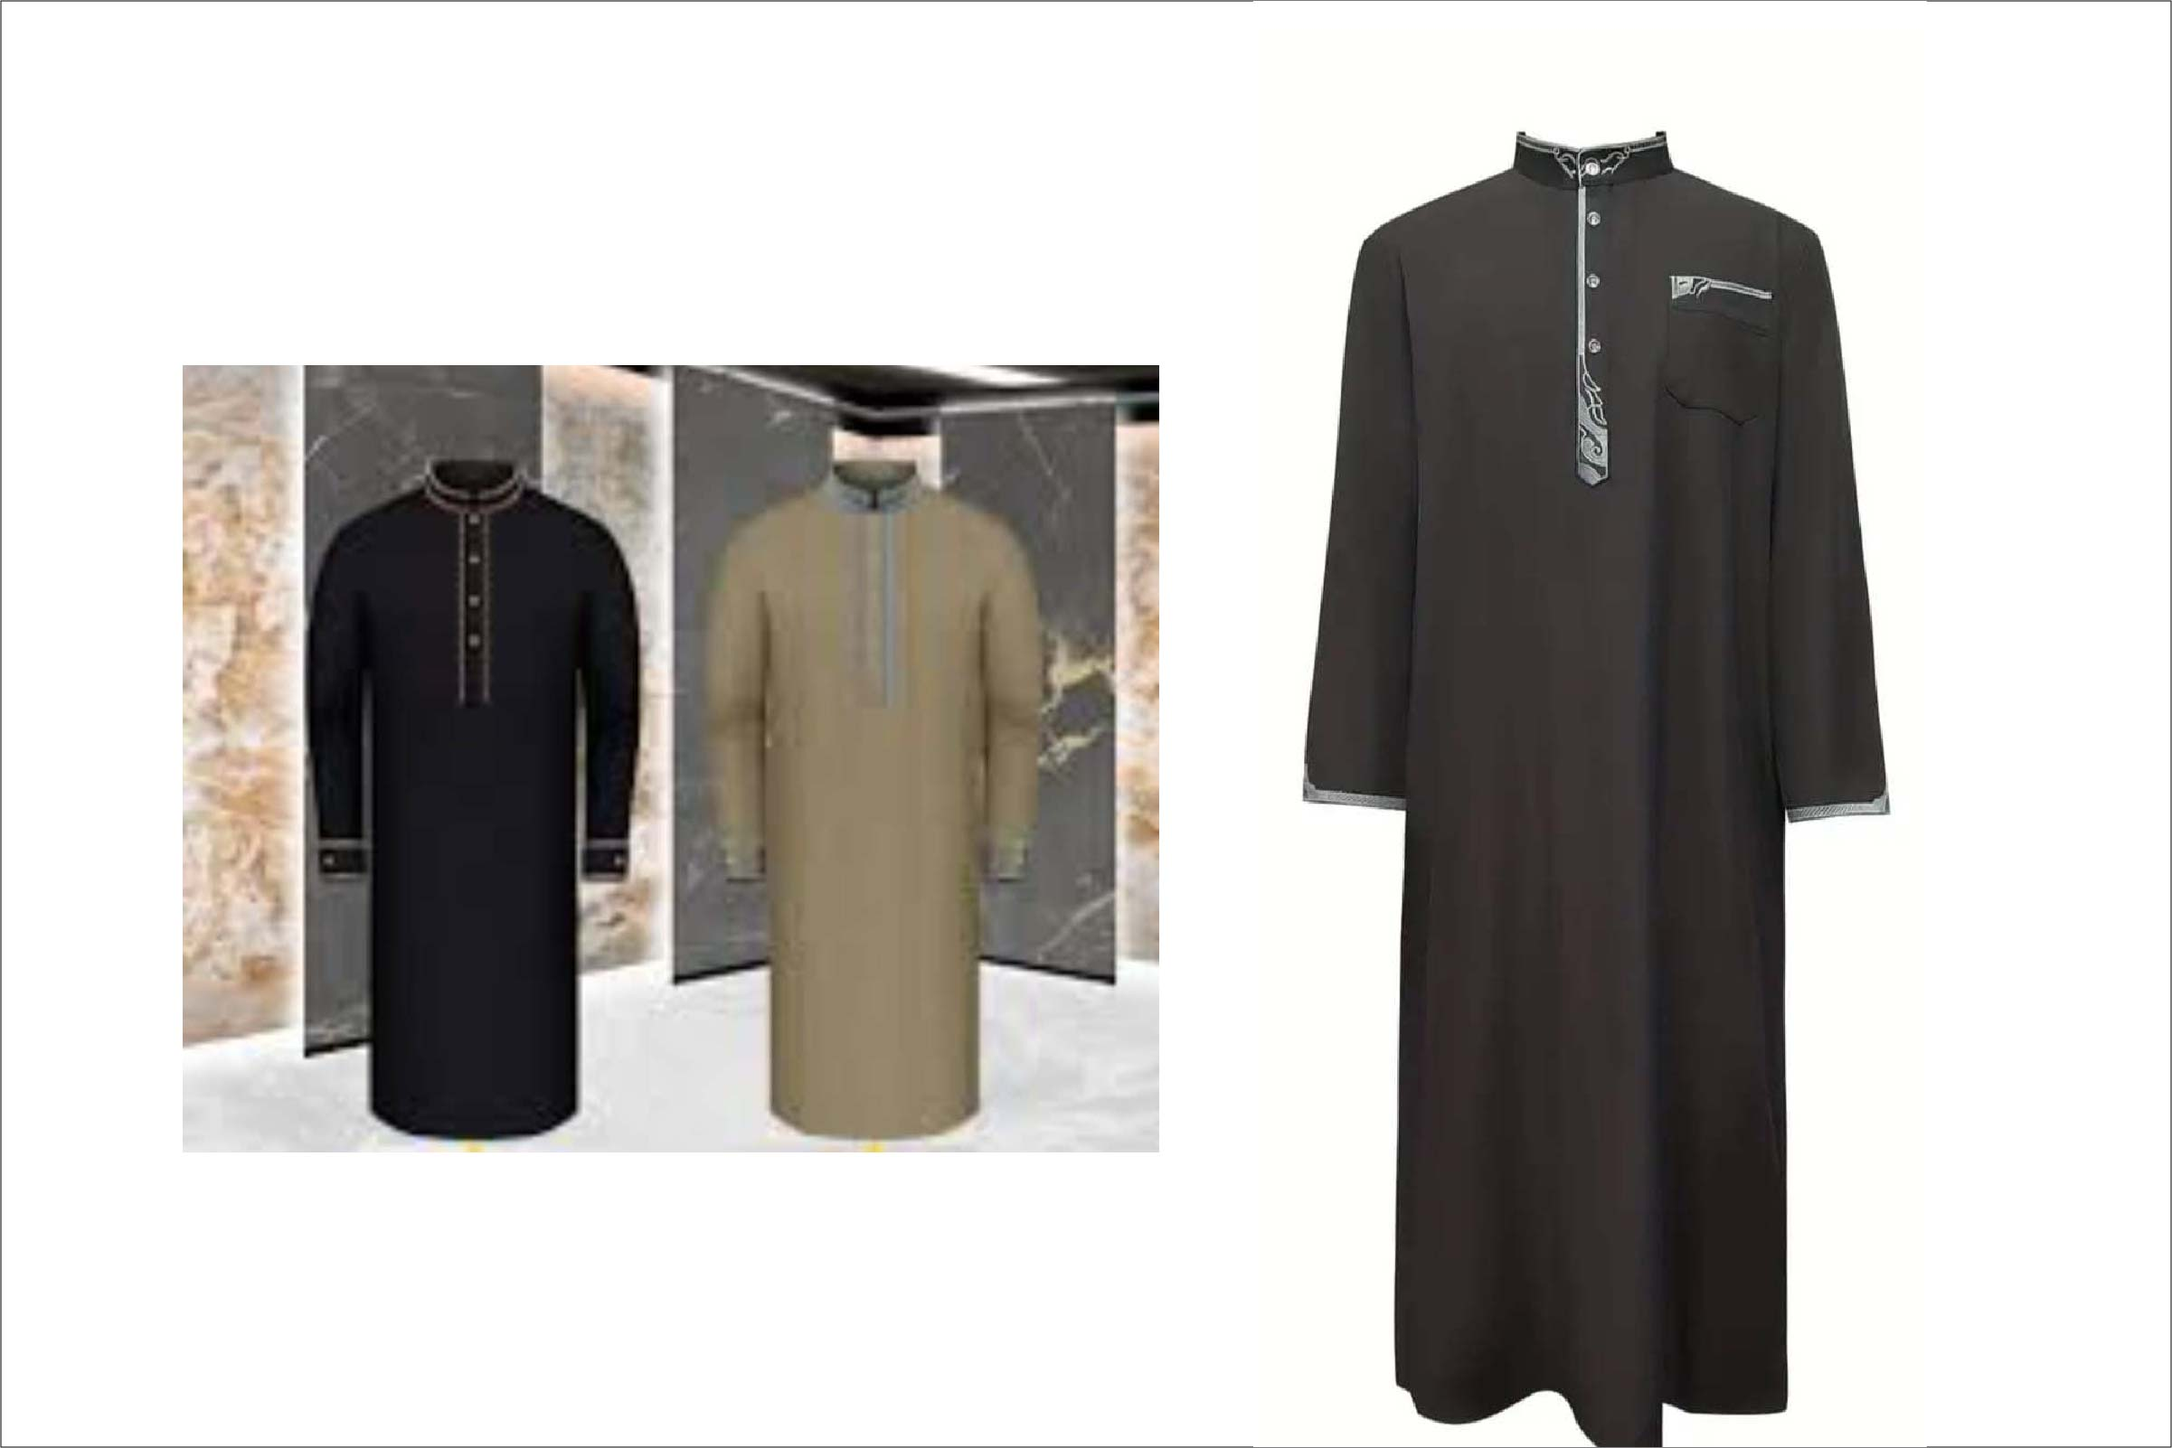
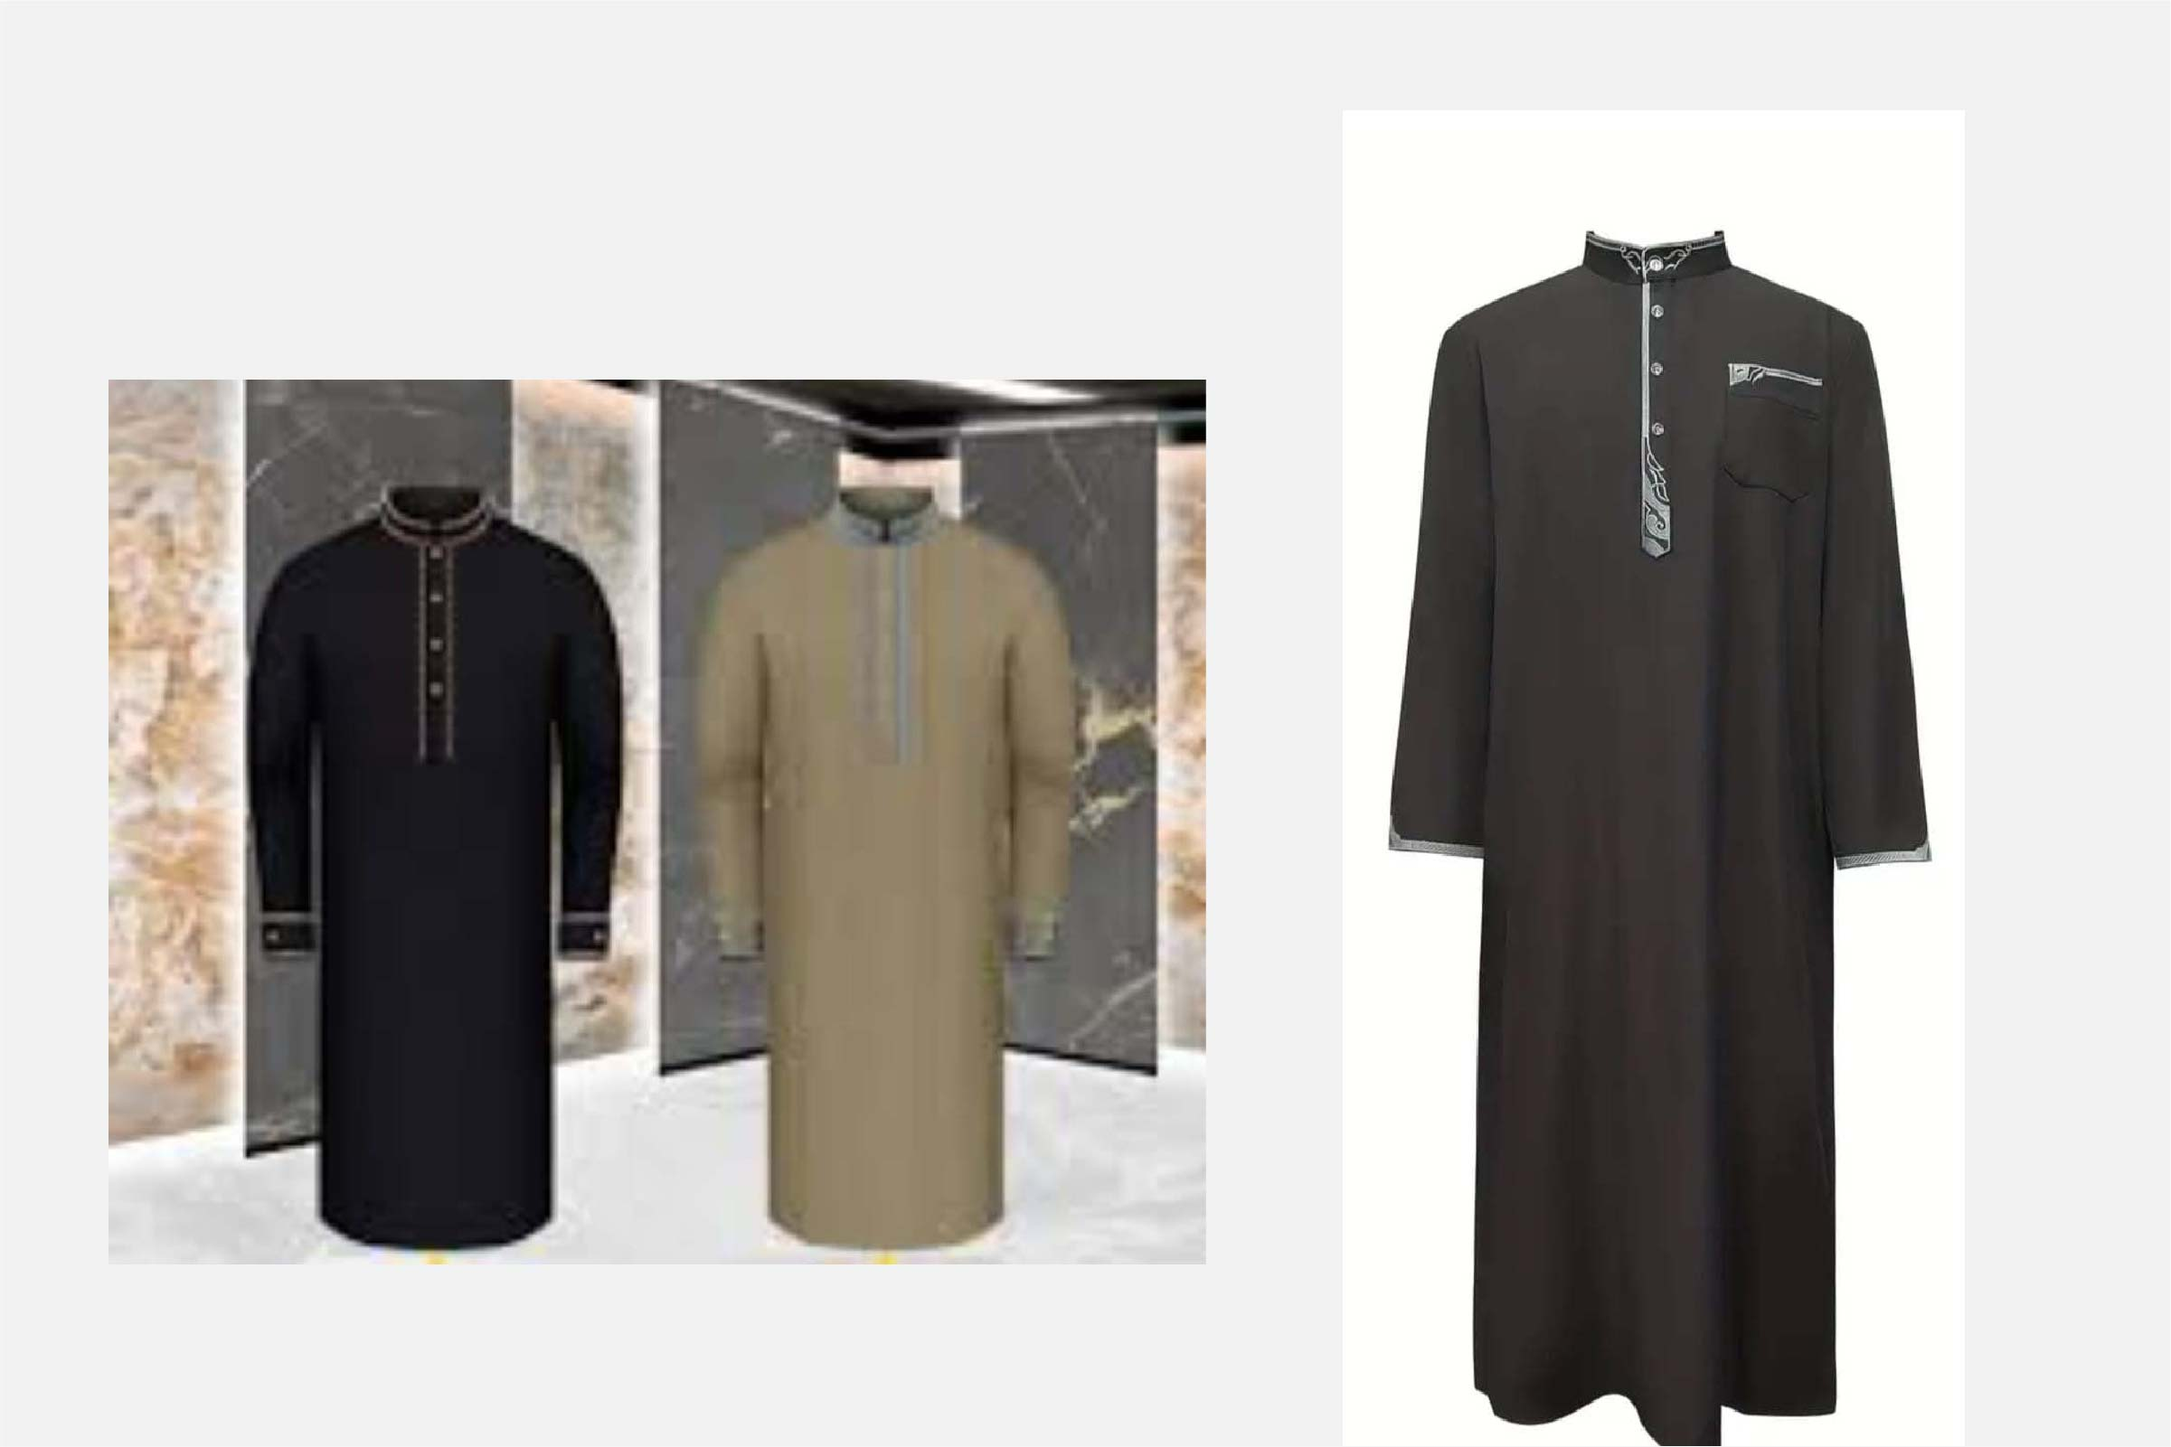
Emarati kendora added to the category section

Changed region(s): [[0.0312, 0.2498, 0.5623, 0.8745], [0.0, 0.0, 1.0, 1.0], [0.3436, 0.406, 0.3748, 0.4372]]

diff --git a/components/ui/hmeCard/HomeCategoryCardSection.tsx b/components/ui/hmeCard/HomeCategoryCardSection.tsx
@@ -14,6 +14,7 @@ const cardsData = [
   { titleEn: "Omani Kendora", titleAr: "بورك", descriptionEn: "Fabric: Made from soft, premium-quality materials such as Dubai Cherry, chiffon, cotton, georgette, and rayon, ensuring superior comfort and breathability for everyday wear or special occasions.Design: Available in classic black, elegant plain styles, and luxurious designs. Our jubbas feature modern cuts with refined cutwork, stone detailing, and contrast embroidery in a range of colors including black, navy blue, and soft pastels. Embroidery & Detailing: Each jubba is carefully crafted using hand or machine embroidery, enhanced with lace accents, sequins, and tasteful stone embellishments for a sophisticated and graceful finish.", descriptionAr: "الخامة: مصنوعة من أقمشة ناعمة وعالية الجودة مثل دبي تشيري، الشيفون، القطن، الجورجيت، والرايون، لتوفير أقصى درجات الراحة والتهوية للاستخدام اليومي أو المناسبات الخاصة. التصميم: متوفرة باللون الأسود الكلاسيكي، والتصاميم السادة الأنيقة، بالإضافة إلى الموديلات الفاخرة. تتميز الجباب بتصميم عصري مع قصّات متقنة، وتفاصيل حجرية، وتطريز متباين بألوان متعددة مثل الأسود، الأزرق الداكن، وألوان الباستيل الهادئة. التطريز والتفاصيل: يتم تصميم كل جبّة بعناية باستخدام التطريز اليدوي أو الآلي، مع لمسات من الدانتيل، الترتر، وتزيينات حجرية أنيقة تمنحها مظهراً راقياً ومميزاً", img: "/OmaniKendoraUpdated.jpg" },
   { titleEn: "Queti Kendora", titleAr: "بورك", descriptionEn: "Fabric: Made from soft, premium-quality materials such as Dubai Cherry, chiffon, cotton, georgette, and rayon, ensuring superior comfort and breathability for everyday wear or special occasions.Design: Available in classic black, elegant plain styles, and luxurious designs. Our jubbas feature modern cuts with refined cutwork, stone detailing, and contrast embroidery in a range of colors including black, navy blue, and soft pastels. Embroidery & Detailing: Each jubba is carefully crafted using hand or machine embroidery, enhanced with lace accents, sequins, and tasteful stone embellishments for a sophisticated and graceful finish.", descriptionAr: "الخامة: مصنوعة من أقمشة ناعمة وعالية الجودة مثل دبي تشيري، الشيفون، القطن، الجورجيت، والرايون، لتوفير أقصى درجات الراحة والتهوية للاستخدام اليومي أو المناسبات الخاصة. التصميم: متوفرة باللون الأسود الكلاسيكي، والتصاميم السادة الأنيقة، بالإضافة إلى الموديلات الفاخرة. تتميز الجباب بتصميم عصري مع قصّات متقنة، وتفاصيل حجرية، وتطريز متباين بألوان متعددة مثل الأسود، الأزرق الداكن، وألوان الباستيل الهادئة. التطريز والتفاصيل: يتم تصميم كل جبّة بعناية باستخدام التطريز اليدوي أو الآلي، مع لمسات من الدانتيل، الترتر، وتزيينات حجرية أنيقة تمنحها مظهراً راقياً ومميزاً", img: "/Quweti_Kendora_updated.jpg" },
   { titleEn: "Indian/Pakistani", titleAr: "بورك", descriptionEn: "Fabric: Made from soft, premium-quality materials such as Dubai Cherry, chiffon, cotton, georgette, and rayon, ensuring superior comfort and breathability for everyday wear or special occasions.Design: Available in classic black, elegant plain styles, and luxurious designs. Our jubbas feature modern cuts with refined cutwork, stone detailing, and contrast embroidery in a range of colors including black, navy blue, and soft pastels. Embroidery & Detailing: Each jubba is carefully crafted using hand or machine embroidery, enhanced with lace accents, sequins, and tasteful stone embellishments for a sophisticated and graceful finish.", descriptionAr: "الخامة: مصنوعة من أقمشة ناعمة وعالية الجودة مثل دبي تشيري، الشيفون، القطن، الجورجيت، والرايون، لتوفير أقصى درجات الراحة والتهوية للاستخدام اليومي أو المناسبات الخاصة. التصميم: متوفرة باللون الأسود الكلاسيكي، والتصاميم السادة الأنيقة، بالإضافة إلى الموديلات الفاخرة. تتميز الجباب بتصميم عصري مع قصّات متقنة، وتفاصيل حجرية، وتطريز متباين بألوان متعددة مثل الأسود، الأزرق الداكن، وألوان الباستيل الهادئة. التطريز والتفاصيل: يتم تصميم كل جبّة بعناية باستخدام التطريز اليدوي أو الآلي، مع لمسات من الدانتيل، الترتر، وتزيينات حجرية أنيقة تمنحها مظهراً راقياً ومميزاً", img: "/Indian PakistaniUpdated.jpg" },
+  { titleEn: "Emarati Kendora", titleAr: "بورك", descriptionEn: "Fabric: Made from soft, premium-quality materials such as Dubai Cherry, chiffon, cotton, georgette, and rayon, ensuring superior comfort and breathability for everyday wear or special occasions.Design: Available in classic black, elegant plain styles, and luxurious designs. Our jubbas feature modern cuts with refined cutwork, stone detailing, and contrast embroidery in a range of colors including black, navy blue, and soft pastels. Embroidery & Detailing: Each jubba is carefully crafted using hand or machine embroidery, enhanced with lace accents, sequins, and tasteful stone embellishments for a sophisticated and graceful finish.", descriptionAr: "الخامة: مصنوعة من أقمشة ناعمة وعالية الجودة مثل دبي تشيري، الشيفون، القطن، الجورجيت، والرايون، لتوفير أقصى درجات الراحة والتهوية للاستخدام اليومي أو المناسبات الخاصة. التصميم: متوفرة باللون الأسود الكلاسيكي، والتصاميم السادة الأنيقة، بالإضافة إلى الموديلات الفاخرة. تتميز الجباب بتصميم عصري مع قصّات متقنة، وتفاصيل حجرية، وتطريز متباين بألوان متعددة مثل الأسود، الأزرق الداكن، وألوان الباستيل الهادئة. التطريز والتفاصيل: يتم تصميم كل جبّة بعناية باستخدام التطريز اليدوي أو الآلي، مع لمسات من الدانتيل، الترتر، وتزيينات حجرية أنيقة تمنحها مظهراً راقياً ومميزاً", img: "/Emarati_KendoraUpdated.jpg" },
 ];
 
 const HomeCategoryCardSection: React.FC = () => {

diff --git a/app/Products/page.tsx b/app/Products/page.tsx
@@ -3,112 +3,13 @@
 
 import { useRouter } from "next/navigation";
 import React from "react";
+import Product from "./Product";
 
-const products = [
-  {
-    id: 1,
-    // name: "Smart Watch",
-    // price: 2500,
-    image: "/Goodwork.jpeg",
-  },
-  {
-    id: 2,
-    // name: "Gaming Mouse",
-    // price: 1500,
-    image: "/Goodwork1.jpeg",
-  },
-  {
-    id: 3,
-    // name: "Bluetooth Speaker",
-    // price: 1800,
-    image: "/Goodwork2.jpeg",
-  },
-  {
-    id: 4,
-    // name: "Bluetooth Speaker",
-    // price: 1800,
-    image: "/Goodwork3.jpeg",
-  },
-  {
-    id: 5,
-    // name: "Bluetooth Speaker",
-    // price: 1800,
-    image: "/Goodwork4.jpeg",
-  },
-  {
-    id: 6,
-    // name: "Bluetooth Speaker",
-    // price: 1800,
-    image: "/Goodwork5.jpeg",
-  },
-  {
-    id: 7,
-    // name: "Bluetooth Speaker",
-    // price: 1800,
-    image: "/Goodwork6.jpeg",
-  },
-  {
-    id: 8,
-    // name: "Bluetooth Speaker",
-    // price: 1800,
-    image: "/Goodwork7.jpeg",
-  },
-  {
-    id: 9,
-    // name: "Bluetooth Speaker",
-    // price: 1800,
-    image: "/Goodwork8.jpeg",
-  },
-  {
-    id: 10,
-    // name: "Bluetooth Speaker",
-    // price: 1800,
-    image: "/Goodwork9.jpeg",
-  },
-  {
-    id: 11,
-    // name: "Bluetooth Speaker",
-    // price: 1800,
-    image: "/menDressEdited3.png",
-  },
-  {
-    id: 12,
-    // name: "Bluetooth Speaker",
-    // price: 1800,
-    image: "/menDressEdited2.jpg",
-  },
-];
 
 const Page = () => {
    const router = useRouter();
   return (
-    <div className="px-6 py-10">
-      <h1 className="text-3xl text-[#D4AB45] text-center font-bold mb-6">Finished Products</h1>
-
-      <div className="lg:w-[60%] mx-auto grid grid-cols-1 sm:grid-cols-2 md:grid-cols-3 gap-6">
-        {products.map((item) => (
-          <div
-            key={item?.id}
-            className="border w-full rounded-lg p-4 shadow hover:shadow-xl transition duration-200"
-          >
-            <img
-              src={item?.image}
-              alt={"Imgae"}
-              className="w-full h-[400px] object-cover rounded"
-            />
-
-            {/* <h2 className="text-xl font-semibold mt-3">{item?.name}</h2> */}
-            <p className="text-gray-600">Price: Negotiable</p>
-
-            <button
-            onClick={()=>router .push('/Contactus')}
-            className="mt-3 bg-[#D4AB45] text-white rounded px-4 py-2">
-             Order now
-            </button>
-          </div>
-        ))}
-      </div>
-    </div>
+    <Product />
   );
 };
 

diff --git a/app/Contactus/page.tsx b/app/Contactus/page.tsx
@@ -99,7 +99,7 @@ export default function ContactPage() {
       {/* ======================Address section ======================= */}
       <div className="lg:my-12 lg:flex gap-8">
         <div>
-          <h6 className="text-xl text-[#D4AB45] font-bold">Address:</h6>
+          <h6 className="text-xl text-[#D4AB45] font-bold mt-[4%]">Address:</h6>
           <p className="text-xs">CR No. 1208992 <br />
             Shop No. 14 <br />
             Al Salami <br />
@@ -113,7 +113,7 @@ export default function ContactPage() {
             <img
               src="/shop.jpeg"
               alt="preview"
-              className="w-[15%] cursor-pointer"
+              className="lg:w-[15%] cursor-pointer mt-[2%]"
               onClick={() => setShow(true)}
             />
           </div>

diff --git a/app/home/MaterialsAndTech.tsx b/app/home/MaterialsAndTech.tsx
@@ -14,8 +14,8 @@ const Materials = [
 
 const MaterialsAndTech = () => {
   return (
-    <div className="p-4 max-w-[70%] items-center mx-auto">
-         <h2 className="text-3xl text-[#D4AB45] text-center mt-12 font-bold py-6">Materials We Use</h2>
+    <div className="p-4 max-w-[70%] items-center mx-auto -mt-8 lg:mt-0">
+         <h2 className="lg:text-3xl text-xl text-[#D4AB45] text-center mt-12 font-bold py-6">Materials We Use</h2>
       <div className="grid grid-cols-1 md:grid-cols-2 lg:grid-cols-4 gap-4">
         {Materials.map((item, index) => (
           <div key={index} className="w-full h-52">

diff --git a/app/home/ProductCategory.tsx b/app/home/ProductCategory.tsx
@@ -5,7 +5,7 @@ import HomeCategoryCardSection from '@/components/ui/hmeCard/HomeCategoryCardSec
 
 
 const ProductCategory: React.FC = () => (
-    <div className='my-12 flex flex-col items-center'>
+    <div className='my-2 flex flex-col items-center'>
         <div className=''>
             <div className="text-center my-8">
                 <h2 className="text-3xl text-[#D4AB45] font-bold">Product Categories</h2>

diff --git a/app/home/component/ReadMoreCatDes.tsx b/app/home/component/ReadMoreCatDes.tsx
@@ -56,7 +56,7 @@ const ReadMoreCatDes: React.FC<ReadMoreCatDesProps> = ({ text, maxWords = 50 }) 
   useEffect(() => {
     const handleResize = () => {
       if (window.innerWidth <= 768) {
-        setWordsLimit(20); // Mobile view
+        setWordsLimit(10); // Mobile view
       } else {
         setWordsLimit(maxWords); // Desktop/tablet view
       }

diff --git a/app/Products/Product.tsx b/app/Products/Product.tsx
@@ -142,7 +142,7 @@ const Product = () => {
             <img
               src={item?.image}
               alt={"Imgae"}
-              className="w-full h-[600px] object-cover rounded"
+              className="w-full h-150 object-cover rounded"
             />
 
             {/* <h2 className="text-xl font-semibold mt-3">{item?.name}</h2> */}
